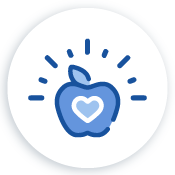
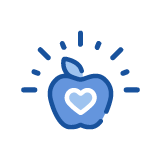
posible final inicio

diff --git a/index.html b/index.html
@@ -157,55 +157,53 @@
   </section>
   
    <div class="fondo__diuitn height__media">
-    <div class="d-column justify-content-around align-items-center" style="height:100%;">
+    <div class="container-fluid d-column justify-content-center align-items-center" style="height: 100%;">
+       
         <br>
-        <h1 class="text-center font__nunito" style="font-weight: bold;">¿Por qué Diutin?</h1>
-    
-        
-        <div class="container-fluid d-flex justify-content-evenly align-items-center  flex-wrap" style="height: 90%" >
-           
-                <div class="col-3 card__diutin full__media mb-query mt-query" style="margin-top: 0px;">
-                    <div class="d-flex justify-content-evenly align-items-center flex-wrap">
-                            <img src="img/icono-porque-1.png" alt="" class="img-fluid mt-3">
-                    </div>
-                    <div class="card__body mt-3">
-                        <h2 class="text-center font__nunito">Innovación en Nutrición</h2>
-                        <p class="p-3 text__justifys font__nunito">
-                            Lorem ipsum dolor sit amet consectetur adipisicing elit. 
-                            Quidem velit repellat non fugit voluptatibus id modi a
-                            rchitecto rem! Totam, atque.
-                        </p>
-                    </div>
+        <h1 class="text-center font__nunito personalizado mb-5__personalizado mt-5__personalizado">¿Por qué diutin es tu aliado?</h1>
+        <div class="d-flex justify-content-evenly flex-wrap botom__reset">
+            <div class="col-3 card__diutin full__media mb-query mt-query" style="margin-top: 0px;">
+                <div class="d-flex justify-content-evenly align-items-center flex-wrap">
+                        <img src="img/icono-porque-1.png" alt="" class="img-fluid icono__sombra">
                 </div>
-                <div class="col-3 card__diutin full__media mb-query">
-                    <div class="d-flex justify-content-evenly align-items-center">
-                        <img src="img/icono-porque-2.png" alt="" class="img-fluid mt-3">
-                    </div>
-                    <div class="card__body mt-3">
-                        <h2 class="text-center font__nunito">Hecho en USA</h2>
-                        <p class="p-3 text__justifys font__nunito">
-                            Lorem ipsum dolor sit amet consectetur adipisicing elit. 
-                            Quidem velit repellat non fugit voluptatibus id modi a
-                            rchitecto rem! Totam, atque.
-                        </p>
-                    </div>
+                <div class="card__body mt-3">
+                    <h2 class="text-center font__nunito">Innovación en Nutrición</h2>
+                    <p class="p-3 text__justifys font__nunito">
+                        Lorem ipsum dolor sit amet consectetur adipisicing elit. 
+                        Quidem velit repellat non fugit voluptatibus id modi a
+                        rchitecto rem! Totam, atque.
+                    </p>
                 </div>
-                <div class="col-3 card__diutin full__media mb-query">
-                    <div class="d-flex justify-content-evenly align-items-center">
-                        <img src="img/icono-porque-3.png" alt="" class="img-fluid mt-3">
-                    </div>
-                    <div class="card__body mt-3">
-                        <h2 class="text-center font__nunito">Variedad</h2>
-                        <p class="p-3 text__justifys font__nunito">
-                            Lorem ipsum dolor sit amet consectetur adipisicing elit. 
-                            Quidem velit repellat non fugit voluptatibus id modi a
-                            rchitecto rem! Totam, atque.
-                        </p>
-                    </div>
+            </div>
+            <div class="col-3 card__diutin full__media mb-query">
+                <div class="d-flex justify-content-evenly align-items-center">
+                    <img src="img/icono-porque-2.png" alt="" class="img-fluid icono__sombra">
                 </div>
-            
+                <div class="card__body mt-3">
+                    <h2 class="text-center font__nunito">Hecho en USA</h2>
+                    <p class="p-3 text__justifys font__nunito">
+                        Lorem ipsum dolor sit amet consectetur adipisicing elit. 
+                        Quidem velit repellat non fugit voluptatibus id modi a
+                        rchitecto rem! Totam, atque.
+                    </p>
+                </div>
+            </div>
+            <div class="col-3 card__diutin full__media mb-query">
+                <div class="d-flex justify-content-evenly align-items-center">
+                    <img src="img/icono-porque-3.png" alt="" class="img-fluid icono__sombra">
+                </div>
+                <div class="card__body mt-3">
+                    <h2 class="text-center font__nunito">Variedad</h2>
+                    <p class="p-3 text__justifys font__nunito">
+                        Lorem ipsum dolor sit amet consectetur adipisicing elit. 
+                        Quidem velit repellat non fugit voluptatibus id modi a
+                        rchitecto rem! Totam, atque.
+                    </p>
+                </div>
+            </div>
         </div>
-     </div>
+    </div>
+    </div>
   
 
    </div>
@@ -219,23 +217,23 @@
                 <img src="img/icono-xs-2.png" alt="" class="img-fluid sombra">
             </div>
             <div class="col-3 m-auto botom__reset">
-                <img src="img/icono-xs.png" alt="" class="img-fluid">
+                <img src="img/icono-xs.png" alt="" class="img-fluid sombra">
             </div>
             <div class="col-3 m-auto botom__reset">
-                <img src="img/icono-xs-3.png" alt="" class="img-fluid">
+                <img src="img/icono-xs-3.png" alt="" class="img-fluid sombra">
             </div>
             
             
         </div>
         <div class="d-flex justify-content-evenly flex-wrap botom__reset">
             <div class="col-3 m-auto botom__reset">
-                <img src="img/icono-xs-4.png" alt="" class="img-fluid">
+                <img src="img/icono-xs-4.png" alt="" class="img-fluid sombra">
             </div>
             <div class="col-3 m-auto botom__reset">
-                <img src="img/icon-xs-5.png" alt="" class="img-fluid">
+                <img src="img/icon-xs-5.png" alt="" class="img-fluid sombra">
             </div>
             <div class="col-3 m-auto botom__reset">
-                <img src="img/icono-xs-6.png" alt="" class="img-fluid">
+                <img src="img/icono-xs-6.png" alt="" class="img-fluid sombra">
             </div>
             
             
@@ -245,31 +243,37 @@
  <div class="hero__diutin__2">
         <br>
         <h1 class="text-center font__nunito mb-5__personalizado mt-5__personalizado" style="font-weight: bold;">Blog Diutin</h1>
+
         <div class="d-column justify-content-evenly align-items-center" style="height:100%;">
             <div class="col-lg-9 m-auto">
-                <div class="glider-contain col-9 m-auto full__media">
-                    <button aria-label="Previous" class="glider-prev"><i class="fa-solid fa-angle-left"></i></button>
-                    <div id="gliders" class="gliders d-flex justify-content-between flex-wrap full__media align-items-center">
+                <div class="glider-contain full m-auto full__media">
+                    <button aria-label="Previous" class="glider-prev"><i class="fa-solid fa-angle-left delete-xs"></i></button>
+                        <div id="gliders" class="gliders d-flex justify-content-between flex-wrap full__media align-items-center position-relative">
+                            
+                            <div class="col-4">
+                                <div class="full m-auto my__blog redius-xs-20 full__media" style="background: url(./img/blog-2.png);">
+                                
+                                </div>
+                            </div>
+                            <div class="col-4">
+                                <div class="full m-auto my__blog redius-xs-20 full__media" style="background: url(./img/blog-1.png);">
+                                
+                                </div>
+                            </div>
                         
-                        <div class="col-4">
-                            <div class="full m-auto my__blog redius-xs-20" style="background: url(./img/blog-2.png);">
-                            
-                            </div>
+                        
+                        
+                        <!---->
                         </div>
-                        <div class="col-4">
-                            <div class="full m-auto my__blog redius-xs-20" style="background: url(./img/blog-1.png);">
-                            
-                            </div>
-                        </div>
-                    
-                    
-                    
-                    <!--<div role="tablist" class="dots"></div>-->
+              
+                <div class="d-flex justify-content-center align-items-center">
+                    <button aria-label="Previous" class="glider-prev position-absolute" style="top: 20px;bottom: 20px;left: 10px;"><i class="fa-solid fa-angle-left"></i></button>
+                    <div role="tablist" class="dots position-absolute" style="bottom: 10px;"></div>
+                    <button aria-label="Next" class="glider-next delete position-absolute" style="top: 20px;bottom: 20px;right: 10px;"><i class="fa-solid fa-angle-right"></i></button>
                 </div>
-                <button aria-label="Next" class="glider-next delete"><i class="fa-solid fa-angle-right"></i></button>
-                <div role="tablist" class="dots"></div>
                 </div>
             </div>
+            
         </div>
 
  </div>
@@ -289,7 +293,7 @@
 
             <p class="footer-links d-flex justify-content-evenly col-8 align-items-center">
                 <a class="link-1" href="#">
-                    <img src="img/logo-diutin-blanco.png" alt="" class="img-fluid">
+                    <img src="img/logo-diutin-blanco.png" alt="" class="img-fluid" style="object-fit: cover;">
                 </a>
             
        

diff --git a/css/app2.css b/css/app2.css
@@ -662,6 +662,10 @@ box-shadow: 0px 0px 20px 3px rgba(10,40,66,0.2);
         display: none!important;
     }
 }
+
+.delete-xs{
+    display: none!important;
+}
 .glider-dot{
     background-color: white!important;
 }
@@ -690,7 +694,7 @@ box-shadow: 0px 0px 20px 3px rgba(10,40,66,0.2);
     border-radius: 50px!important;
 }
 .redius-xs-20{
-    border-radius: 20px!important;
+    border-radius: 40px!important;
 }
 .botom__reset{
     margin-bottom: 160px!important;
@@ -710,10 +714,18 @@ box-shadow: 0px 0px 20px 3px rgba(10,40,66,0.2);
     text-decoration: none!important;
 }
 .sombra{
-    -webkit-box-shadow: 10px 10px 5px 0px rgba(0,0,0,0.75);
-    -moz-box-shadow: 10px 10px 5px 0px rgba(0,0,0,0.75);
-    box-shadow: 10px 10px 5px 0px rgba(0,0,0,0.75);
+    -webkit-box-shadow: 2px 2px 12px 0px rgba(10,40,66,0.15);
+    -moz-box-shadow: 2px 2px 12px 0px rgba(10,40,66,0.15);
+    box-shadow: 2px 2px 12px 0px rgba(10,40,66,0.15);
     border-radius: 50%!important;
+}
+.icono__sombra{
+    -webkit-box-shadow: 2px 2px 12px 0px rgba(10,40,66,0.15);
+    -moz-box-shadow: 2px 2px 12px 0px rgba(10,40,66,0.15);
+    box-shadow: 2px 2px 12px 0px rgba(10,40,66,0.15);
+    border-radius: 50%!important;
+    margin-top: 36px;
+    margin-bottom: 36px;
 }
 @media (min-width: 992px){
     .mx-lg-5 {
